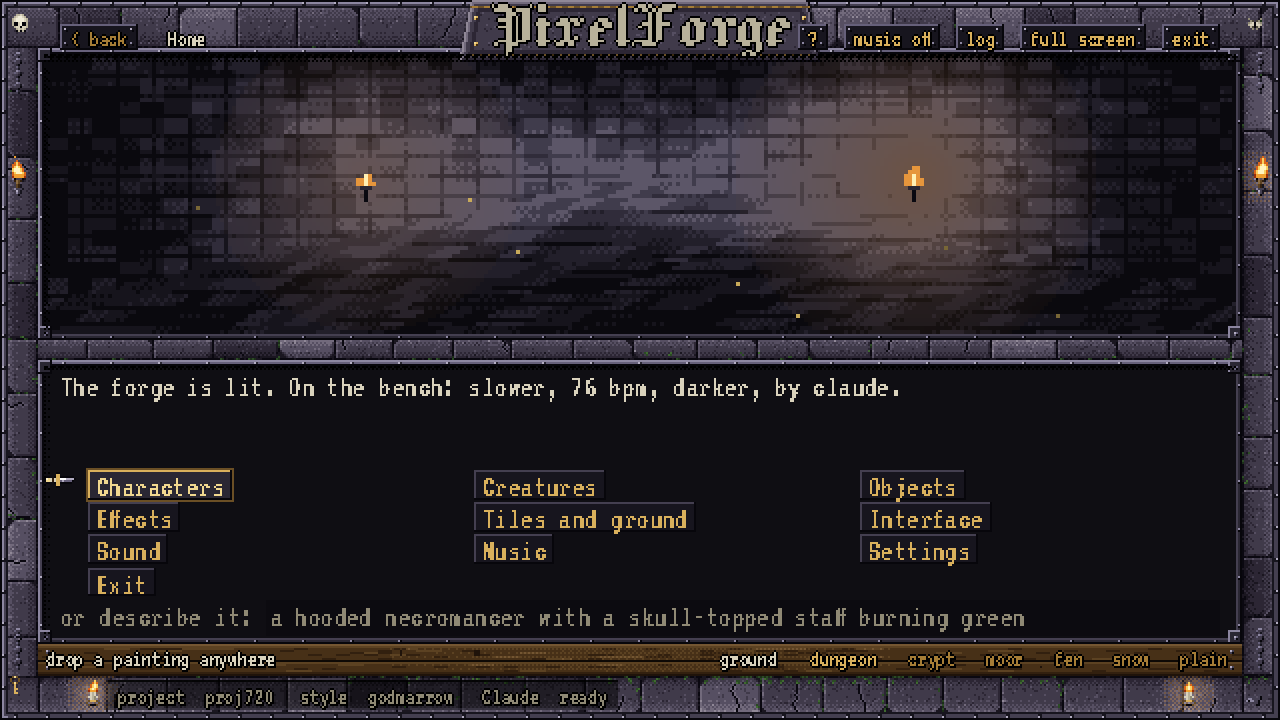
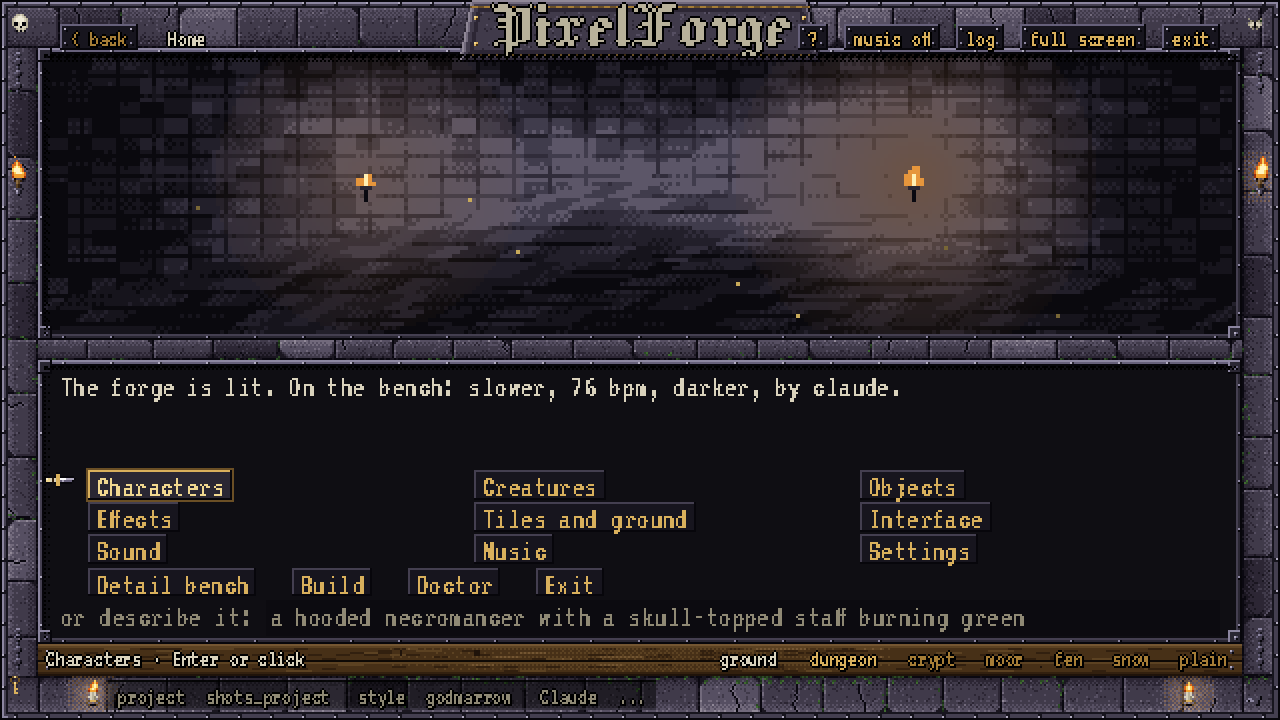
HANDOFF 7.33 to 7.36 and the Home and Detail screenshots
The handoff entries for the detail layer, the light and ink, the blood
runs and project build, with what was verified; docs/screens/forgeapp
gets the Detail bench and the Home screen with its Detail bench and
Build actions, shot with screens.sh at 0 errors.

Claude-Session: https://claude.ai/code/session_01AnujA4r6kzJEaVUmm56NAm

diff --git a/docs/HANDOFF.md b/docs/HANDOFF.md
@@ -2048,3 +2048,63 @@ files the game loads today. The guides' main flow no longer names the retired ro
 the end of each names the flag. Tests of the retired roads are `skipif` on the flag; `tests/test_old_roads.py` covers
 the guards, the cue table and a cue render.
 
+
+**7.33 (2026-10-05, PixelForge session, `track/finish`): the detail layer that rides the parts (`docs/FORGE_FROM_THE_GAME.md`
+3.1).** A part of a shape file may carry a small texture in its own surface coordinates (`"detail": {"head": {"file":
+"hemomancer.detail/head.png"}}` or inline `rows`; u round the part's long axis with the front at the middle, v down it;
+`Prim.axis_frame` / `surface_uv` in `tools/pixelforge/pixelforge/shapes.py`, `detail_axis` on a shape overrides the
+axis). Its texels are **ramp-step offsets, never colours** (a grey PNG: 128 no change, 32 per step, 0 a blood seed;
+`encode_detail` / `decode_detail`), added to the step the light chose and clipped to the material's ramp, so the
+palette never grows. Each voxel's (u, v) is read once at voxelising; the texel lookup is one numpy pass per texture
+set (`Model.detail_steps`, `Model.set_detail` for the bench), sampled per pixel by the voxel that won it, so it turns
+and bends with the part in `render_still`, the turnaround and every clip. `validate` checks the map, `warnings` names a
+missing PNG. Stock detail per material class in `pixelforge/shape_detail.py` (`face`, `skin`, `cloth`, `wood`,
+`bandage`, `metal`, `hair`; the class from the material's `detail` key in `assets/shapes/materials.json` or its name;
+the texture sized to the part's extent at 195 px): `pixelforge shapes detail FILE [--stock [--replace]] [--part NAME
+--from PNG | --part NAME --stock] [--clear [--part NAME]] [--list] [--json]`. Applied to the Hemomancer and the Keeper
+(`assets/shapes/characters/<name>.detail/`, `<name>_flat.shapes.json` kept beside each for the comparison tests; the
+Hemomancer's generator writes the stock layer when it runs). The Forge's **Detail bench** (`forge/scripts/screens/detail.gd`,
+from Home's *Detail bench* on the last model of the Characters bench or the Keeper): the part's texture unwrapped at
+pixel scale on the left, the figure on the right, part / tool (pencil, brush 2 3 4) / facing / shade cyclers, the ramp's
+steps as chips plus the seed, left drag paints, right drag erases, Undo, Stock, Clear part, Choose a model file, Exit,
+"?"; every stroke writes the PNG through `shapes detail --part --from` and re-renders the still through the request and
+ticket rule of `screen.gd`. Pictures: `docs/screens/forge/hemomancer_detail_compare.png`, `keeper_detail_compare.png`
+(the painting | flat | detail | detail + light; `shape_detail.compare_picture`), `docs/screens/forgeapp/detail.png`.
+
+**7.34 (2026-10-05, `track/finish`): light and ink as a style setting (3.2).** Four keys on every preset in
+`styles.py` (`form_light`, `creases`, `ink`, `rim`; `shape_tools.options_for(...)["look"]`, `Model(look=...)`), all on
+for `godmarrow`, off for every other preset, so a render with them off is the old render bit for bit (hashes in
+`tests/test_detail.py`). `form_light`: a ramp step up toward each piece's upper-left on the screen and a step down
+toward its lower-right from the piece's screen box that frame (pieces under 4 px keep their steps); `creases`: one step
+darker where a nearer piece overlaps; `ink`: the near side of a deep overlap takes the outline colour (or the part's
+darkest step), never a new colour; `rim`: one step up along the silhouette's light side. Quantised to the ramps: no
+gradient, no glow, no red light (tests: rendered colours ⊆ the materials' ramps + outline + shadow; the godmarrow
+render differs from the flat; each key alone changes the picture within the ramps).
+
+**7.35 (2026-10-05, `track/finish`): blood runs (3.3).** A material option `"runs": {"colour_from": "blood",
+"density": 0.35, "length": [2, 6]}` (`validate` checks the named material exists): from every visible seed texel (-4 in
+the detail texture, grey 0 in the PNG; the stock cloth, wood and bandage textures place them when the material bleeds)
+a drip goes straight down the screen over the same part, its length from the seed's own hash so it holds still from
+frame to frame and rides the part, the bead a step up and the tail a step down in the named ramp only (`Model._runs`).
+A part with no seed painted bleeds a little from a few columns at its top. The Hemomancer's mantle, tabard, cape,
+planks, bandages and leg-cloth bleed this way; the random blood speck rules are gone from the generator
+(`docs/concepts/hemomancer/shapes/make_hemomancer_shapes.py`).
+
+**7.36 (2026-10-05, `track/finish`): one command from a shape file to the game (3.4).** `pixelforge project build
+<character> [FILE] -p <folder> [--game <game>] [--kind K] [--skin-for CLASS] [--style S] [--dry-run] --json`
+(`api.build_character`): import-shapes → the fixed set (`idle walk attack punch cast hit death roll` → `idle walk atk
+atk2 cast hit death dodge`, 8 frames each and `hit` 6; a file whose attack is the punch gets the jab for `atk2`) in 8
+views at the style's height with the detail layer and the look → export-game into the game's `art/sprites` (found
+above the project or `--game`) with the `skins.json` entry (`godmarrow_export`) → the height check
+(`godmarrow_export.height_warning`, a hero is 195 px). One JSON result: `paths` (shapes, frames, manifest, sheet,
+json, skins), `steps`, `warnings` (no detail layer; no game for `skins.json`; the height), `height`, `lines`. Home's
+**Build** runs it through the driver on the last character of the bench and shows the lines in the picture window, the
+first warning on the state line, no pop-up. **The game session can retire `tools/paintover/*`** once it has rebuilt
+the Hemomancer with `project build` (the scripts are left in place; the detail and the light are render steps now).
+
+Verified for 7.33 to 7.36: 443 pytest green, 13 skipped (`tests/test_detail.py` 15: the PNG round trip, `validate`,
+the surface coordinates, a texel turning with its part, the colours within the ramps, the detail riding the rig,
+`set_detail` without voxelising, the look off bit for bit, the presets, each key within the ramps, no red light, the
+runs on one part in the blood ramp, the Hemomancer bleeding in runs not specks, the stock grids, the CLI, `project
+build --dry-run` and the whole road into a scratch game); `check_scripts.gd` 35/0, `test_detail.gd` 20/0,
+`test_editor.gd` 106/0, `test_scene.gd` 21/0; `screens.sh` home and detail at 0 errors.
